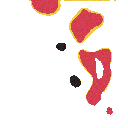
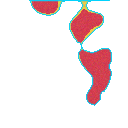
Repair Wound Lab segmentation and tissue results

diff --git a/components/wound-analysis-results.tsx b/components/wound-analysis-results.tsx
@@ -5,7 +5,7 @@ import { Activity, ArrowDownRight, ArrowUpRight, CircleHelp, FileText, HeartPuls
 import type { ClinicalBrief, PipelineVisuals, WoundVisit } from '@/lib/wound-api';
 import type { WoundPatient } from '@/lib/wound-patients';
 import {
-  measuredNumber, patientEducation, selectedPipelineVisuals, selectedWoundVisit,
+  measuredNumber, patientEducation, reconciledWoundVisit, selectedPipelineVisuals, selectedWoundVisit,
   trajectoryPresentation, woundNumber, woundRasterSource, woundRecord, woundText,
   type HealingStatus, type WoundLanguage,
 } from '@/lib/wound-presentation';
@@ -43,7 +43,8 @@ export default function WoundAnalysisResults({ brief, patient, developerMode, se
   pipelineVisuals?: PipelineVisuals;
 }) {
   const language: WoundLanguage = 'en';
-  const visit = selectedWoundVisit(brief, selectedDay);
+  const visuals = selectedPipelineVisuals(brief, selectedDay, pipelineVisuals);
+  const visit = reconciledWoundVisit(selectedWoundVisit(brief, selectedDay), visuals);
   const education = patientEducation(brief, language);
   const trajectory = trajectoryPresentation(brief);
   return <div data-testid={developerMode ? 'developer-outcome' : 'patient-brief'} className="min-w-0 space-y-5 text-slate-900 dark:text-slate-100">
@@ -138,15 +139,15 @@ function CurrentMeasurements({ visit, language, measurementNote }: { visit?: Wou
       const amount = usable ? visit.tissue_percentages?.[tissue.key] : undefined;
       return <article key={tissue.key} className="min-w-0 rounded-xl border border-slate-200 p-4 dark:border-slate-700">
         <div className="flex items-center gap-2"><span aria-hidden="true" className={`size-2.5 rounded-full ${tissue.color}`} /><h4 className="text-sm font-semibold">{tissue[language]}</h4></div>
-        <p className={`my-3 break-all text-3xl font-semibold tabular-nums ${tissue.textColor}`}>{amount === undefined ? '—' : `${amount.toFixed(1)}%`}</p>
+        <p className={`my-3 break-all text-3xl font-semibold tabular-nums ${tissue.textColor}`}>{amount === undefined ? 'Not available' : `${amount.toFixed(1)}%`}</p>
         <div aria-hidden="true" className="h-1.5 overflow-hidden rounded-full bg-slate-100 dark:bg-slate-800"><div className={`h-full rounded-full ${tissue.color}`} style={{ width: `${Math.min(100, Math.max(0, amount ?? 0))}%` }} /></div>
         <p className={`mt-3 text-xs leading-6 ${muted}`}>{tissue.englishNote}</p>
       </article>;
     })}</div>
     <dl className="mt-4 grid gap-3 rounded-xl bg-slate-50 p-4 dark:bg-slate-800/70 sm:grid-cols-3">
       <Metric label="Projected area" value={area === undefined ? !usable ? 'Not available' : 'No image scale' : `${measuredNumber(area)} cm²`} />
-      <Metric label="U-Net wound area" value={pixels === undefined ? '—' : `${measuredNumber(pixels)} pixels`} />
-      <Metric label="Unclassified wound fraction" value={metricsAvailable && woundNumber(visit.unclassified_percentage) !== undefined ? `${measuredNumber(visit.unclassified_percentage)}%` : '—'} />
+      <Metric label="U-Net wound area" value={pixels === undefined ? 'Not available' : `${measuredNumber(pixels)} pixels`} />
+      <Metric label="Unclassified wound fraction" value={metricsAvailable && woundNumber(visit.unclassified_percentage) !== undefined ? `${measuredNumber(visit.unclassified_percentage)}%` : 'Not available'} />
     </dl>
     <div className="mt-4"><Copy value={measurementNote} fallback="Color labels are image estimates and require direct clinical tissue assessment." /></div>
   </section>;
@@ -214,7 +215,7 @@ function VisualPipeline({ brief, patient, selectedDay, selectedImageUrl, pipelin
     : 'Pipeline visuals are unavailable for this selected capture.';
   const panels = [
     { title: 'Input', label: 'Selected original capture', source: selectedImageUrl || woundRasterSource(visuals.original_image, visuals.original_mime_type), note: 'Original image for the selected visit.' },
-    { title: 'U-Net Mask', label: 'Isolated wound region', source: available ? woundRasterSource(visuals.unet_segmentation_mask, 'image/png') : undefined, note: 'U-Net estimates the wound boundary and isolates it from the background.' },
+    { title: 'U-Net Boundary', label: 'Dominant wound region with boundary', source: available ? woundRasterSource(visuals.unet_segmentation_mask, 'image/png') : undefined, note: 'The cyan edge marks the dominant connected region after short-gap closing, noise removal, and hole filling. This single-wound post-processing improves readability but is not clinical validation.' },
     { title: 'Tissue Overlay', label: 'Tissue classification overlay', source: available ? woundRasterSource(visuals.tissue_analysis_overlay, 'image/png') : undefined, note: 'Model overlay: red = granulation; yellow = slough; gray = dark-tissue class. Percentages use mask pixels, including unclassified tissue.' },
   ];
   const education = patientEducation(brief, language);

diff --git a/components/wound-visit-workflow.tsx b/components/wound-visit-workflow.tsx
@@ -163,7 +163,12 @@ export default function WoundVisitWorkflow({ patient, developerMode, onBusyChang
     try {
       const response = await fetch('/wound-demo/day_007_rgb.png');
       if (!response.ok) throw new Error('Unable to load the sample image.');
-      addFiles([new File([await response.blob()], 'synthetic-wound-sample.png', { type: 'image/png' })]);
+      const file = new File([await response.blob()], 'synthetic-wound-sample.png', { type: 'image/png' });
+      generation.current++; visitGeneration.current++;
+      setSession(null); setSelected(''); setSelectedVisitId(''); setSelectedBrief(null);
+      setVisitLoading(false); setMustReload(false); setDeleteTarget(null);
+      setRows([{ ...blank('draft-' + ++serial.current, localTime()), file }]);
+      setProgress('Hosted AI sample loaded into a clean session. Select “Save & analyze”.');
     } catch (caught) { setError(message(caught)); }
     finally { setBusy(false); }
   }
@@ -298,7 +303,7 @@ export default function WoundVisitWorkflow({ patient, developerMode, onBusyChang
           <div className="flex flex-wrap gap-2">
             <Button type="button" variant="outline" className="min-h-11 flex-1" onClick={() => camera.current?.click()}><Camera className="size-4" />Take photo</Button>
             <input ref={camera} aria-label="Take a photo with the camera" type="file" accept="image/jpeg,image/png" capture="environment" className="sr-only" onChange={e => { addFiles(Array.from(e.target.files || [])); e.target.value = ''; }} />
-            <Button type="button" variant="outline" className="min-h-11 flex-1 border-blue-200 text-blue-700 dark:border-blue-800 dark:text-blue-200" onClick={() => void loadSample()}><FlaskConical className="size-4" />Load hosted AI sample</Button>
+            <Button type="button" variant="outline" className="min-h-11 flex-1 border-blue-200 text-blue-700 dark:border-blue-800 dark:text-blue-200" disabled={patient.patient_id !== 'SYN000014'} title={patient.patient_id !== 'SYN000014' ? 'Select Alex Morgan (SYN000014) to use the checkpoint-verified hosted sample.' : undefined} onClick={() => void loadSample()}><FlaskConical className="size-4" />Load hosted AI sample</Button>
           </div>
           <label className="block text-sm font-medium">Choose one or more images<input aria-label="Choose one or more images" type="file" multiple accept=".png,.jpg,.jpeg,image/png,image/jpeg" className={input + ' text-sm file:mr-2'} onChange={e => { addFiles(Array.from(e.target.files || [])); e.target.value = ''; }} /></label>
           {rows.map((row, index) => <article key={row.id} className="space-y-3 rounded-xl border border-border p-3" data-testid="visit-draft">
@@ -310,7 +315,7 @@ export default function WoundVisitWorkflow({ patient, developerMode, onBusyChang
             <label className="flex min-h-11 items-start gap-2 text-sm leading-6"><input type="checkbox" checked={row.consistent} className="mt-1 size-4 shrink-0 accent-blue-600" onChange={e => update(row.id, { consistent: e.target.checked })} /><span>The same distance, angle, and image dimensions were used across captures.</span></label>
           </article>)}
           <Button type="button" variant="outline" disabled={count + rows.length >= 1000} className="min-h-11 w-full" onClick={() => setRows(previous => [...previous, blank('draft-' + ++serial.current, previous.length ? '' : localTime())])}><Plus className="size-4" />Add another image</Button>
-          <p className="text-xs leading-5 text-muted-foreground">For an immediate public-link demo, choose “Load hosted AI sample,” then “Save & analyze.” The bundled synthetic image uses a checkpoint-generated result. Other PNG/JPEG uploads (≤ 8 MiB) are saved, but no AI estimate is fabricated when hosted inference is unavailable. Enter pixels/cm only from a scale in the wound plane.</p>
+          <p className="text-xs leading-5 text-muted-foreground">For an immediate public-link demo, use Alex Morgan (SYN000014), choose “Load hosted AI sample,” then “Save & analyze.” Loading the sample starts a clean session so old pending uploads cannot hide its tissue results. The synthetic wound-only crop uses a checkpoint-generated result and is not a natural clinical photograph. Other PNG/JPEG uploads (≤ 8 MiB) are saved, but no AI estimate is fabricated when hosted inference is unavailable. Enter pixels/cm only from a scale in the wound plane.</p>
         </fieldset>
         <Button type="submit" disabled={busy || mustReload || !rows.some(row => row.file) || count >= 1000} className={primary + ' w-full'}>{busy && <Loader2 className="size-4 animate-spin" />}{busy ? 'Processing…' : 'Save & analyze'}</Button>
         <output aria-live="polite" className="block text-sm leading-6 text-muted-foreground">{progress || (busy ? 'Reading saved data…' : 'Sample profile · synthetic or de-identified data only.')}</output>

diff --git a/lib/wound-presentation.ts b/lib/wound-presentation.ts
@@ -80,3 +80,26 @@ export function selectedPipelineVisuals(brief: ClinicalBrief, day?: number, supp
   if (supplied) return supplied;
   return day === undefined || day === brief.objective_measurements.visits.at(-1)?.day ? brief.pipeline_visuals ?? {} : {};
 }
+
+/** Recover same-capture measurements when an older visit projection omitted them. */
+export function reconciledWoundVisit(visit: WoundVisit | undefined, visuals: PipelineVisuals): WoundVisit | undefined {
+  if (!visit || visit.analysis_status === 'pending_model' || visuals.status !== 'available') return visit;
+  if (woundNumber(visuals.day) !== undefined && visuals.day !== visit.day) return visit;
+  const measurements = woundRecord(visuals.wound_measurements);
+  if (measurements.measurement_status !== 'available') return visit;
+  const tissue = woundRecord(measurements.tissue_percentages);
+  const granulation = woundNumber(tissue.granulation);
+  const slough = woundNumber(tissue.slough);
+  const necrotic = woundNumber(tissue.necrotic);
+  const unclassified = woundNumber(measurements.unclassified_percentage);
+  if ([granulation, slough, necrotic, unclassified].some(value => value === undefined || value < 0 || value > 100)) return visit;
+  if (Math.abs(granulation! + slough! + necrotic! + unclassified! - 100) >= 0.1) return visit;
+  return {
+    ...visit,
+    measurement_status: 'available',
+    measurement_source: typeof measurements.measurement_source === 'string' ? measurements.measurement_source : visit.measurement_source,
+    tissue_percentages: visit.tissue_percentages ?? { granulation: granulation!, slough: slough!, necrotic: necrotic! },
+    unclassified_percentage: woundNumber(visit.unclassified_percentage) ?? unclassified!,
+    wound_area_pixels: woundNumber(visit.wound_area_pixels) ?? woundNumber(measurements.wound_area_pixels) ?? null,
+  };
+}

diff --git a/tests/wound-presentation.test.ts b/tests/wound-presentation.test.ts
@@ -3,7 +3,7 @@ import { test } from 'node:test';
 import type { ClinicalBrief, WoundVisit } from '../lib/wound-api.ts';
 import {
   measuredNumber, patientEducation, selectedPipelineVisuals, selectedWoundVisit,
-  trajectoryPresentation, woundRasterSource,
+  reconciledWoundVisit, trajectoryPresentation, woundRasterSource,
 } from '../lib/wound-presentation.ts';
 
 const visit = (day: number): WoundVisit => ({
@@ -117,4 +117,20 @@ void test('pipeline sources accept bounded raster bytes only, never SVG or a rem
   assert.equal(woundRasterSource('dGVzdA==', 'image/svg+xml'), undefined);
   assert.equal(woundRasterSource('https://example.com/a.png', 'image/png'), undefined);
   assert.equal(woundRasterSource('a'.repeat(12_000_001), 'image/png'), undefined);
+});
+
+void test('same-capture pipeline measurements restore tissue cards omitted by an older visit projection', () => {
+  const source = visit(7);
+  source.tissue_percentages = null;
+  source.wound_area_pixels = null;
+  const restored = reconciledWoundVisit(source, {
+    day: 7, status: 'available', wound_measurements: {
+      measurement_status: 'available', measurement_source: 'binary_wound_mask_v2',
+      tissue_percentages: { granulation: 61, slough: 24, necrotic: 15 },
+      unclassified_percentage: 0, wound_area_pixels: 2345,
+    },
+  });
+  assert.deepEqual(restored?.tissue_percentages, { granulation: 61, slough: 24, necrotic: 15 });
+  assert.equal(restored?.wound_area_pixels, 2345);
+  assert.equal(reconciledWoundVisit(source, { day: 0, status: 'available', wound_measurements: {} }), source);
 });

diff --git a/aimedic/visual_pipeline.py b/aimedic/visual_pipeline.py
@@ -35,6 +35,8 @@ DEFAULT_TISSUE_CHECKPOINT = ROOT / "outputs" / "pwc-visual-run" / "best.pt"
 WOUND_MODEL_VERSION = "pwc-fusd-resnet34-unet-v1"
 WOUND_IMAGE_SIZE = 256
 WOUND_THRESHOLD = 0.35
+WOUND_MIN_FOREGROUND_FRACTION = 0.0025
+WOUND_CLOSE_FRACTION = 0.03
 IMAGENET_MEAN = np.array([0.485, 0.456, 0.406], dtype=np.float32)
 IMAGENET_STD = np.array([0.229, 0.224, 0.225], dtype=np.float32)
 PALETTE = np.array([[0, 0, 0], [60, 65, 78], [245, 190, 35], [230, 60, 90]], np.uint8)
@@ -196,6 +198,36 @@ def prepare_wound_tensor(rgb):
     return torch.from_numpy(normalized.transpose(2, 0, 1).copy()).unsqueeze(0)
 
 
+def postprocess_wound_mask(mask):
+    """Return one coherent dominant region for the single-wound workflow.
+
+    The binary checkpoint can emit small detached islands. Close short boundary
+    gaps, keep the dominant connected region, and fill internal holes. An
+    implausibly tiny result is withheld instead of promoted to a measurement.
+    """
+    if not isinstance(mask, np.ndarray) or mask.ndim != 2:
+        raise ValueError("Expected a two-dimensional wound mask")
+    binary = np.asarray(mask, dtype=np.uint8)
+    if not binary.any():
+        return np.zeros(binary.shape, dtype=bool)
+    radius = max(1, int(round(min(binary.shape) * WOUND_CLOSE_FRACTION)))
+    kernel_size = 2 * radius + 1
+    kernel = cv2.getStructuringElement(cv2.MORPH_ELLIPSE, (kernel_size, kernel_size))
+    closed = cv2.morphologyEx(binary, cv2.MORPH_CLOSE, kernel)
+    count, labels, stats, _ = cv2.connectedComponentsWithStats(closed, connectivity=8)
+    if count <= 1:
+        return np.zeros(binary.shape, dtype=bool)
+    dominant = 1 + int(np.argmax(stats[1:, cv2.CC_STAT_AREA]))
+    component = np.where(labels == dominant, 255, 0).astype(np.uint8)
+    minimum = max(16, int(np.ceil(binary.size * WOUND_MIN_FOREGROUND_FRACTION)))
+    if int(np.count_nonzero(component)) < minimum:
+        return np.zeros(binary.shape, dtype=bool)
+    contours, _ = cv2.findContours(component, cv2.RETR_EXTERNAL, cv2.CHAIN_APPROX_SIMPLE)
+    filled = np.zeros_like(component)
+    cv2.drawContours(filled, contours, -1, 255, thickness=cv2.FILLED)
+    return filled.astype(bool)
+
+
 def predict_wound_mask(rgb, model):
     with torch.inference_mode():
         logits = model(prepare_wound_tensor(rgb))
@@ -204,7 +236,8 @@ def predict_wound_mask(rgb, model):
         # SMP returns logits. Threshold probabilities strictly > 0.35, then use
         # nearest-neighbor resizing so the original-size mask stays binary.
         mask = (torch.sigmoid(logits)[0, 0] > WOUND_THRESHOLD).cpu().numpy().astype(np.uint8)
-    return cv2.resize(mask, (rgb.shape[1], rgb.shape[0]), interpolation=cv2.INTER_NEAREST).astype(bool)
+    resized = cv2.resize(mask, (rgb.shape[1], rgb.shape[0]), interpolation=cv2.INTER_NEAREST)
+    return postprocess_wound_mask(resized)
 
 
 def masked_wound_tensor(rgb, wound_mask, size):
@@ -271,6 +304,17 @@ def isolate_wound(rgb, wound_mask):
     return encode_png(isolated)
 
 
+def render_wound_boundary(rgb, wound_mask):
+    """Show the selected region with a high-contrast contour and mask alpha."""
+    outlined = cv2.cvtColor(rgb, cv2.COLOR_RGB2BGR)
+    contours, _ = cv2.findContours(wound_mask.astype(np.uint8), cv2.RETR_EXTERNAL, cv2.CHAIN_APPROX_SIMPLE)
+    thickness = max(1, int(round(min(wound_mask.shape) / 128)))
+    cv2.drawContours(outlined, contours, -1, (255, 210, 0), thickness=thickness, lineType=cv2.LINE_AA)
+    rgba = cv2.cvtColor(outlined, cv2.COLOR_BGR2BGRA)
+    rgba[..., 3] = np.where(wound_mask, 255, 0).astype(np.uint8)
+    return encode_png(rgba)
+
+
 def render_segmentation(rgb, labels, wound_mask=None):
     """Binary-mask alpha preserves dark tissue; outside pixels remain unchanged."""
     if wound_mask is None:
@@ -307,9 +351,13 @@ def build_pipeline_visuals(image_path, checkpoint_path, quality, day, tissue_che
         height, width = rgb.shape[:2]
         wound_mask = predict_wound_mask(rgb, model)
         visuals["wound_measurements"]["wound_area_pixels"] = int(wound_mask.sum())
-        visuals.update(status="available", unet_segmentation_mask=isolate_wound(rgb, wound_mask),
+        visuals.update(status="available", unet_segmentation_mask=render_wound_boundary(rgb, wound_mask),
                        processed_size={"width": width, "height": height},
                        foreground_fraction=float(wound_mask.mean()),
+                       mask_postprocessing={"method": "close_dominant_component_fill_v1",
+                                            "single_wound_assumption": True,
+                                            "closing_radius_fraction": WOUND_CLOSE_FRACTION,
+                                            "minimum_foreground_fraction": WOUND_MIN_FOREGROUND_FRACTION},
                        model={"version": WOUND_MODEL_VERSION, "architecture": "smp.Unet",
                               "encoder": "resnet34", "classes": 1, "device": "cpu",
                               "input_size": [WOUND_IMAGE_SIZE, WOUND_IMAGE_SIZE],

diff --git a/aimedic/test_visual_pipeline.py b/aimedic/test_visual_pipeline.py
@@ -103,6 +103,22 @@ class BinaryVisualTests(unittest.TestCase):
         expected = cv2.resize((probabilities.numpy() > 0.35).astype(np.uint8), (901, 317), interpolation=cv2.INTER_NEAREST)
         np.testing.assert_array_equal(predicted, expected.astype(bool))
 
+    def test_mask_cleanup_keeps_one_dominant_filled_region(self):
+        mask = np.zeros((100, 120), np.uint8)
+        mask[20:70, 25:75] = 1
+        mask[38:47, 40:50] = 0
+        mask[5:7, 110:112] = 1
+        cleaned = visuals.postprocess_wound_mask(mask)
+        components, _ = cv2.connectedComponents(cleaned.astype(np.uint8))
+        self.assertEqual(components - 1, 1)
+        self.assertTrue(cleaned[42, 45])
+        self.assertFalse(cleaned[5, 110])
+
+    def test_mask_cleanup_withholds_tiny_false_positive(self):
+        mask = np.zeros((100, 100), np.uint8)
+        mask[5:7, 5:7] = 1
+        self.assertFalse(visuals.postprocess_wound_mask(mask).any())
+
     def test_invalid_binary_outputs_are_rejected(self):
         for output in (torch.ones(1, 4, 256, 256), torch.full((1, 1, 256, 256), float("nan"))):
             with self.subTest(shape=output.shape), self.assertRaises(ValueError):
@@ -126,6 +142,7 @@ class BinaryVisualTests(unittest.TestCase):
         self.assertTrue(np.any(overlay[mask] != self.rgb[..., ::-1][mask]))
         self.assertEqual(isolated.shape, (317, 901, 4))
         self.assertEqual(overlay.shape, self.rgb.shape)
+        self.assertEqual(result["mask_postprocessing"]["method"], "close_dominant_component_fill_v1")
 
     def test_binary_alpha_keeps_dark_and_unclassified_wound_pixels(self):
         rgb = np.array([[[0, 0, 0], [140, 160, 180], [220, 180, 80]]], np.uint8)

diff --git a/docs/WOUND_TRAJECTORY_ENGINE.md b/docs/WOUND_TRAJECTORY_ENGINE.md
@@ -135,7 +135,11 @@ also includes the new assessment extension; v2 API output uses the new rules thr
 ## Measurement and rule boundaries
 
 Binary U-Net preprocessing stays ImageNet/256×256/sigmoid >0.35 on CPU. Before
-tissue inference, pixels outside the binary mask are zeroed, the wound bounding
+downstream inference, the single-wound cleanup closes short gaps, retains the
+dominant connected component, fills holes, and rejects implausibly tiny foreground.
+This deterministic cleanup removes detached false-positive islands; it does not
+establish clinical segmentation accuracy. Pixels outside the cleaned binary mask
+are zeroed, the wound bounding
 box is cropped and resized, and the resized mask is applied again. Tissue counts
 divide by **all mask pixels**; tissue class zero inside the mask is unclassified.
 The API uses these counts, not the whole-image tissue head, in the brief. The
@@ -273,14 +277,14 @@ also accepted the example above and returned the exact latest deltas, score 0.61
 uncertainty 0.60, and the illustrative stagnation flag. That is software evidence,
 not an estimate of clinical performance. Nothing was committed, pushed or deployed.
 
-Current post-`c269a89` verification: all **77 existing Python tests passed**, and
+Current 2026-09-16 verification: all **79 Python tests passed**, including dominant
+component/hole-fill/tiny-mask cleanup, and
 `outputs/wound-venv/bin/python -B scripts/verify-wound-models.py` passed against the
 three original Git LFS checkpoints. The latter checks actual first-image baseline
 fusion, exact two-visit deltas, a stored pending capture retried with the real models,
 historical pipeline readback, mask/overlay boundaries, unchanged original image
 bytes, app restart and scoped deletion in temporary SQLite. Checkpoint digests
-match the manifest before and after. Existing test files and original model bytes
-were not modified or replaced.
+match the manifest before and after. Original model bytes were not modified or replaced.
 
 The sample and mirrored second image are synthetic QA fixtures, not a real patient's
 healing sequence. The 10 pixels/cm scale supplied by that script is a test input;

diff --git a/docs/WOUND_RESEARCH_ARCHITECTURE.md b/docs/WOUND_RESEARCH_ARCHITECTURE.md
@@ -27,8 +27,11 @@ thresholds, not validated medical triage criteria.
 - Optional `pipeline_visuals` contains Base64 raw input, U-Net isolated foreground
   and tissue overlay. `aimedic/visual_pipeline.py` loads the supplied binary
   `outputs/wound_unet_fusd.pt` via SMP U-Net/ResNet34 on CPU (ImageNet, 256×256,
-  sigmoid >0.35). Masks return at original dimensions; the separate synthetic
-  tissue classifier colors only inside them. Binary training provenance/clinical
+  sigmoid >0.35). Masks return at original dimensions. The single-wound workflow
+  closes short gaps, keeps the dominant connected component, fills internal holes,
+  and withholds implausibly tiny foreground; the Developer panel draws the retained
+  contour explicitly. The separate synthetic tissue classifier colors only inside
+  that cleaned mask. Binary training provenance/clinical
   performance have not been verified here. The tissue classifier and learned risk
   head now receive a masked crop. Tissue percentages count only mask pixels;
   unclassified mask pixels remain in the denominator. This is not feature attribution.
@@ -46,7 +49,7 @@ thresholds, not validated medical triage criteria.
   Git LFS, SHA-256 verified and compatible with this macOS runtime. The isolated
   `scripts/verify-wound-models.py` API check passed actual single/two-visit inference,
   pending retry, historical visuals and exact-byte SQLite persistence. The unchanged
-  77 Python tests also passed. These tests use synthetic fixtures and do not establish
+  79 Python tests also passed. These tests use synthetic fixtures and do not establish
   clinical performance or all-pages browser coverage. Opt-in missing-model handling
   still preserves an image as `pending_model` with null metrics if models become
   unavailable; retry analyzes the saved bytes once they are restored. No fabricated

diff --git a/aimedic/README.md b/aimedic/README.md
@@ -44,7 +44,7 @@ Detailed Feature Breakdown
    Repetition Counting & Alignment Feedback: Supports guided home exercises by counting completed reps and flagging posture deviations.
    On-Device Processing: Analyzes motion entirely within the local browser session without recording, streaming, or saving raw video feeds.
 
-Wound backend update (2026-09-11): masked tissue counts, persistent local image sessions, multi-day baseline-aware trajectory rules, risk/uncertainty, and evidence provenance are implemented. Bilingual patient explanations now explain the mechanism, possible consequences, and safe next steps; **77 Python tests passed.** See [trajectory API, runnable example and handoff](https://www.google.com/search?q=docs/WOUND_TRAJECTORY_ENGINE.md). The website uploader supports multi-day wound sessions and renders chronological changes in the research dashboard. Scores are uncalibrated research outputs.
+Wound backend update (2026-09-16): masked tissue counts, dominant-region mask cleanup, persistent local image sessions, multi-day baseline-aware trajectory rules, risk/uncertainty, and evidence provenance are implemented. Bilingual patient explanations now explain the mechanism, possible consequences, and safe next steps; **79 Python tests passed.** See [trajectory API, runnable example and handoff](https://www.google.com/search?q=docs/WOUND_TRAJECTORY_ENGINE.md). The website uploader supports multi-day wound sessions and renders chronological changes in the research dashboard. Scores are uncalibrated research outputs.
 
 > Quickstart for new AIs/contributors: read [`AGENTS.md`](AGENTS.md), [feature-to-Supabase alignment](https://www.google.com/search?q=docs/PORTAL_AUDIT.md), then [the project vision/whitepaper provided by the project owner](https://www.google.com/search?q=docs/PROJECT_VISION_WHITEPAPER_VI.md).
 

diff --git a/docs/WOUND_AI_INTEGRATION.md b/docs/WOUND_AI_INTEGRATION.md
@@ -149,7 +149,10 @@ Mode reopens input, U-Net isolation, tissue overlay and Clinical Brief through t
 selected capture. Raw input can always be retrieved separately from the stored image.
 
 Binary U-Net uses supplied weights, CPU/ImageNet normalization, 256×256 input,
-sigmoid >0.35 and original-size masks. Tissue inference and the learned risk head
+sigmoid >0.35 and original-size masks. Single-wound post-processing closes short
+gaps, removes detached noise by retaining the dominant component, fills holes and
+withholds tiny foreground. The mask panel draws its boundary rather than leaving
+users to infer it from transparency. Tissue inference and the learned risk head
 receive the isolated crop; tissue percentages count all mask pixels, including
 unclassified pixels. These panels are not feature attribution. Missing, malformed,
 quality-abstained or unavailable images receive honest placeholders. Current
@@ -173,7 +176,8 @@ After retrieving `c269a89`, the unchanged **77 Python tests** and
 The isolated API verification covers full single-image baseline fusion, two-visit
 exact area/tissue deltas, actual pending-image retry, persisted historical pipeline
 visuals, exact input bytes, reopening the database and patient-scoped deletion.
-The sample produced 2,536 wound-mask pixels; changing only the synthetic baseline
+The current cleaned sample produced 2,531 wound-mask pixels in one connected region
+(granulation 74.6%, slough 18.1%, necrotic 7.2%); changing only the synthetic baseline
 changed the learned score while leaving the tissue mask/counts unchanged. This
 demonstrates integration and baseline sensitivity, not calibrated risk or clinical
 accuracy. The second capture is an explicitly mirrored synthetic fixture; its

diff --git a/docs/PORTAL_AUDIT.md b/docs/PORTAL_AUDIT.md
@@ -133,7 +133,8 @@ Earlier QA counts above describe previous versions.
   ảnh đơn ghép baseline, hai lần chụp có delta chính xác, retry ảnh từng lưu chờ,
   pipeline lịch sử, mask và overlay, đọc lại byte ảnh sau mở lại DB, xóa đúng patient
   đều PASS trong SQLite tạm. Database người dùng không bị đọc/sửa; fixture tạm được dọn.
-- Ảnh simulator mẫu tạo mask 2.536 pixel: mô hạt 1.656, slough 517, lớp mô sẫm 363;
+- Ảnh simulator mẫu sau hậu xử lý một vùng chính tạo mask 2.531 pixel: mô hạt 1.889,
+  slough 459, lớp mô sẫm 183; mask có một component liên thông và đường biên được vẽ rõ;
   pixel ngoài mask trong overlay được giữ nguyên. Cùng ảnh với baseline khác có
   điểm model khác nhưng không đổi tissue counts, xác nhận luồng ghép baseline.
   Ảnh thứ hai trong QA là ảnh mẫu lật ngang, không phải ảnh hồi phục ngoài thực tế;
